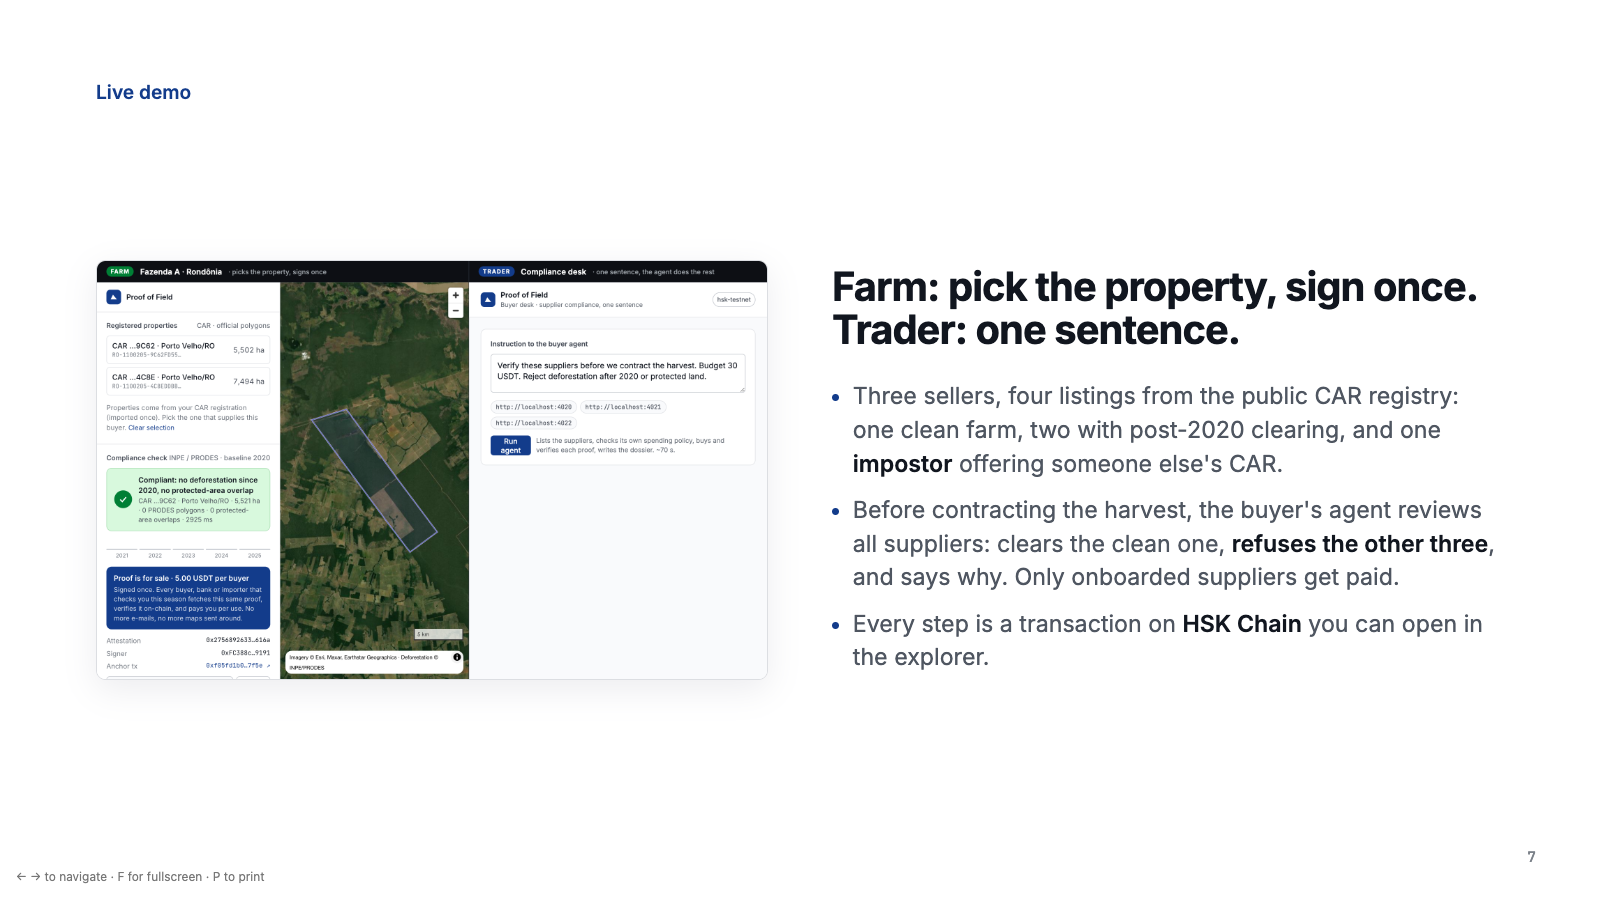
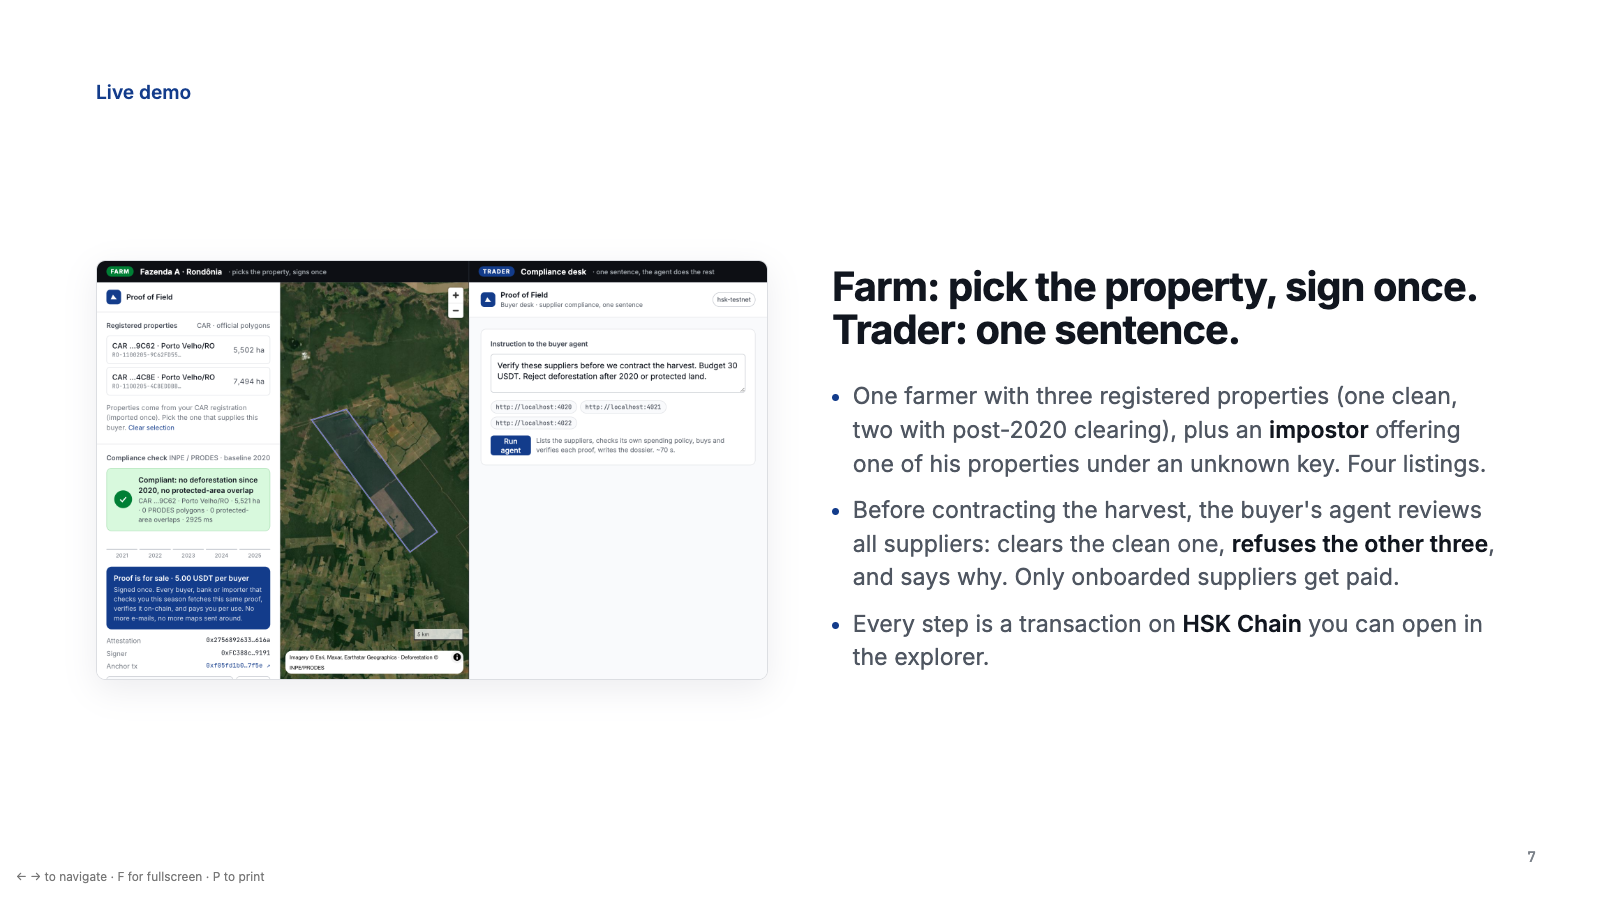
README wording

Changed region(s): [[0.5312, 0.4356, 0.9375, 0.5289]]

diff --git a/README.md b/README.md
@@ -115,7 +115,7 @@ Example: [attestation anchored](https://testnet-explorer.hsk.xyz/tx/0xd1a37a26ce
 
 - **x402**: the farmer agent answers `402` with a v1-shaped `accepts[]` (scheme `exact`, network, `payTo`, `asset`, `maxAmountRequired`). Settlement here is an on-chain ERC-20 transfer referenced by tx hash in `X-PAYMENT`; the server verifies the `Transfer` log to its own address and rejects replays. Roadmap: EIP-3009 `transferWithAuthorization` so the buyer never needs gas.
 - **AgentWallet** is the piece that makes autonomous buying safe: a company funds it once, sets a policy, and gives an agent a key that can *only* pay allow-listed sellers within limits.
-- **Who gets paid**: the CAR registry is public, so anyone could compute a true-looking proof for someone else's farm. The buyer only pays suppliers it onboarded: the company allow-lists a supplier's address in its `AgentWallet` (`setPayee`) after contract/KYC, the buyer agent marks other sellers `knownSupplier: false` and flags the same CAR offered by two keys (`carConflict`). The demo includes an impostor farmer agent for exactly this. Next: a gov.br-signed wallet↔CAR-holder binding anchored on-chain, or a zkTLS proof of the SICAR login.
+- **Who gets paid**: the CAR registry is public, so anyone could compute a true-looking proof for someone else's farm. The buyer only pays suppliers it onboarded: the company allow-lists a supplier's address in its `AgentWallet` (`setPayee`) after contract/KYC, the buyer agent marks other sellers `knownSupplier: false` and flags the same CAR offered by two keys (`carConflict`). The demo includes an impostor farmer agent for exactly this: one farmer (three registered properties) plus an impostor offering one of them under an unknown key. Next: a gov.br-signed wallet↔CAR-holder binding anchored on-chain, or a zkTLS proof of the SICAR login.
 - **Privacy**: the attestation commits to the polygon (`fieldId = keccak(canonical GeoJSON)`) but reveals only aggregates. A buyer can verify the farmer's claim without ever learning where the field is. Selective disclosure of the geometry (to an auditor, under a separate paid resource) is a natural extension.
 - **Data**: PRODES is INPE's official yearly deforestation mapping (Landsat/Sentinel, published as polygons; minimum mapping unit 6.25 ha, annual). `./scripts/fetch-prodes.sh` downloads 2021+ polygons for **Rondônia, Mato Grosso and Goiás across the Amazon and Cerrado biomes** (~103k polygons, ~150 MB, not in git) plus the state×biome polygons used for coverage. The farmer agent indexes them in memory (3 s startup, ~540 MB) and intersects with turf in 0.4–1.8 s. **Fields not fully inside a covered state×biome are refused** (`422 no_coverage`) rather than reported as clean. Without the download it falls back to the bundled Abunã/RO extract.
 
